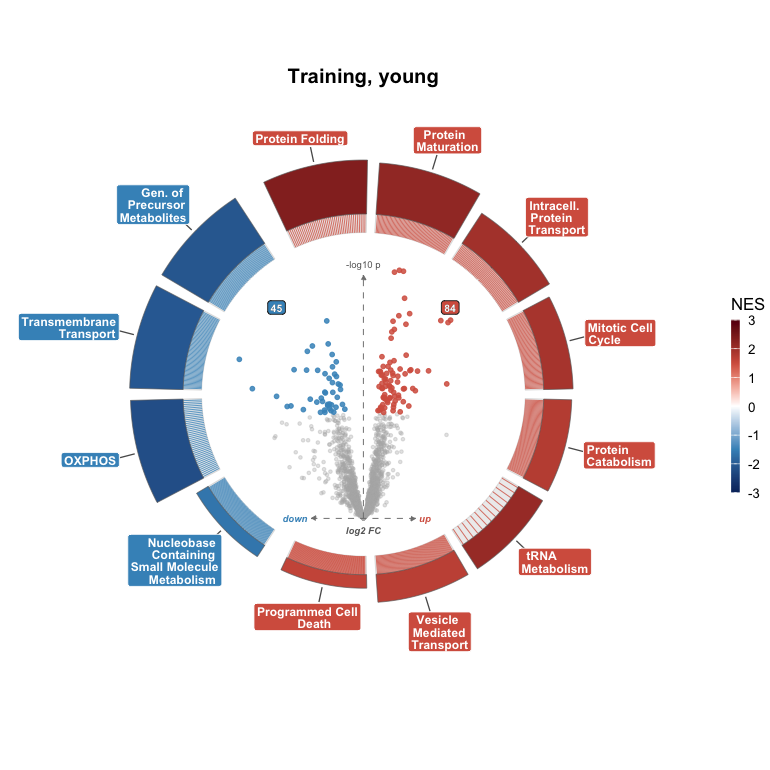
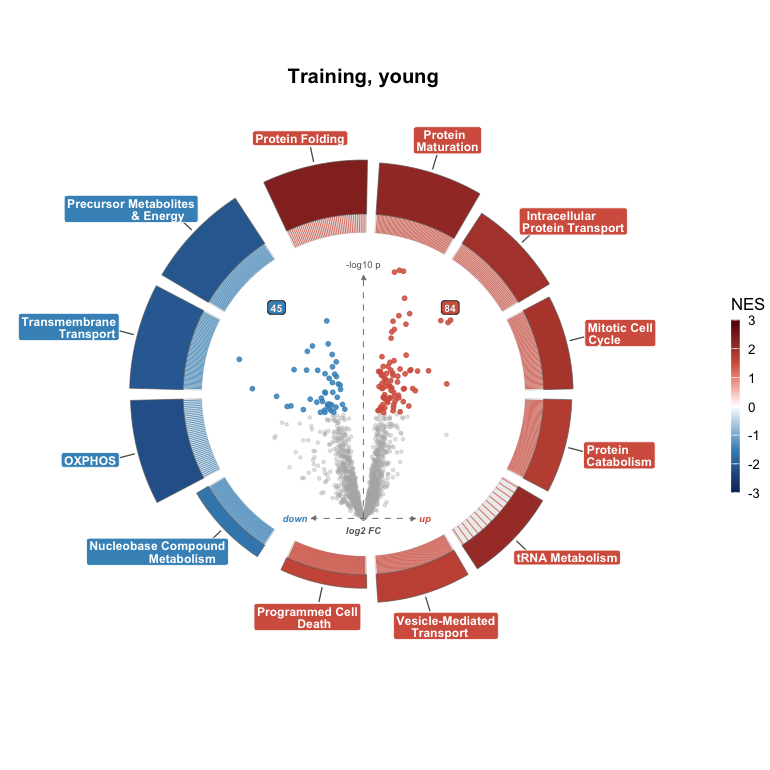
document the label table and bump to 2.2.0

diff --git a/NEWS.md b/NEWS.md
@@ -1,3 +1,23 @@
+# enrichVolcano 2.2.0
+
+## New features
+
+* Hallmark and GO slim terms take their labels from a table written for the
+  package, in two styles: `labels = "short"` (the default) fits two ring
+  lines, and `labels = "clean"` spells every word out.
+* `list_labels()` lists the terms a figure will draw, with both labels, and
+  `write_labels()` saves the list to CSV. Edit its `label` column and pass the
+  table back through `labels`.
+* `labels` also takes a function that names every term.
+
+## Changes
+
+* Terms outside the table lose their prefix and underscores and are
+  title-cased, with common acronyms restored. The phrase shortening and
+  hand-set line breaks of 2.1.0 are gone, so some Reactome, KEGG and GO:BP
+  labels are longer. Shorten them with `write_labels()` or a function.
+* MitoCarta names keep only their last level.
+
 # enrichVolcano 2.1.0
 
 ## Breaking changes
